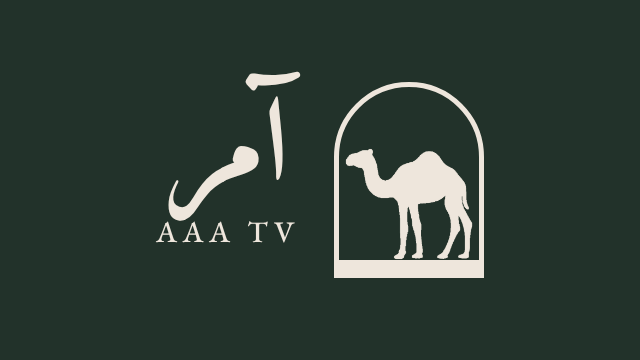
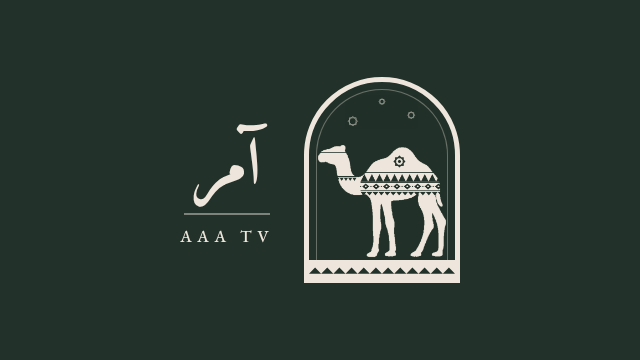
Brand: Sadu ornaments on the camel, patterned arch, smaller wordmark
Claude-Session: https://claude.ai/code/session_01V9scDL3bs3SyEDiv4QiuPT

Changed region(s): [[0.25, 0.2139, 0.7812, 0.7944], [0.375, 0.1833, 0.4688, 0.2444], [0.625, 0.3056, 0.6562, 0.3361]]

diff --git a/docs/brand/README.md b/docs/brand/README.md
@@ -1,6 +1,6 @@
 # هوية AAA TV · آمر
 
 - **الألوان:** كريمي `#EEE6DC`، أخضر داكن `#22322A`.
-- **الشعار:** جمل داخل نافذة مقوّسة بخط أخضر، على قاعدة.
+- **الشعار:** جمل داخل نافذة مقوّسة، عليه شداد بنقوش السدو (مثلثات ومعيّنات وأهداب) ونجمة ثمانية على السنام، وقلادة على الرقبة. داخل القوس خط داخلي رفيع ونجوم خافتة، والقاعدة بصف مثلثات.
 - **الخطوط:** «آمر» بخط Amiri (نسخ عريض)، و«AAA TV» بخط EB Garamond بتباعد أحرف واسع.
 - **الملفات:** `sva_banner.png` (بانر التلفزيون ٦٤٠×٣٦٠)، `sva_image.png` (الأيقونة)، و`aamr-lockup.png` و`aamr-banner-dark.png` هنا.
